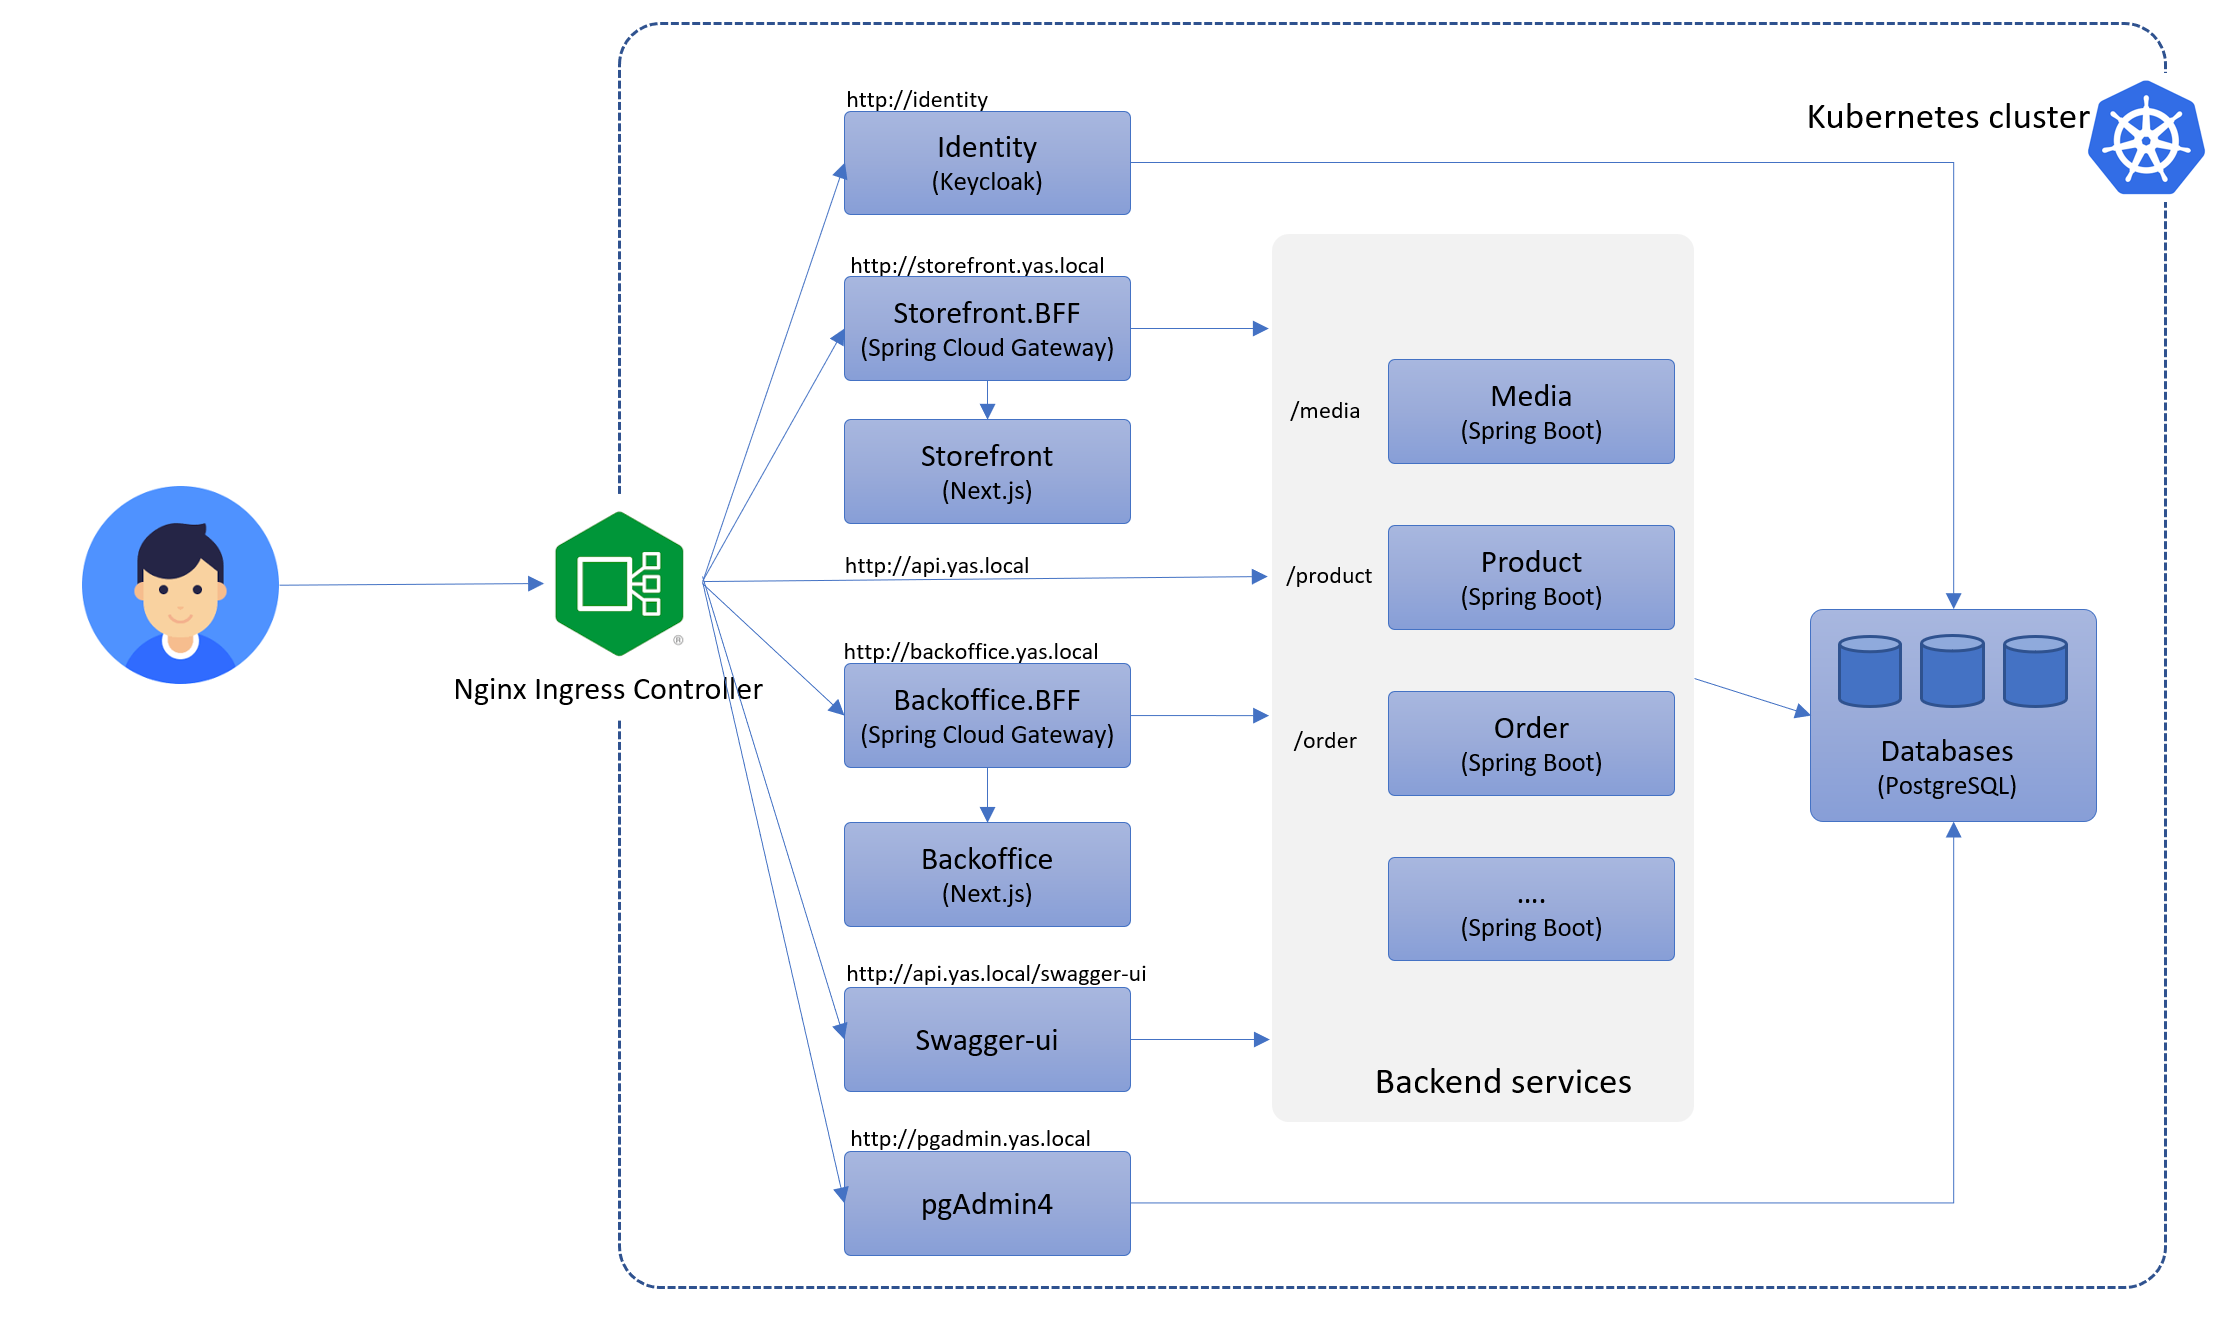
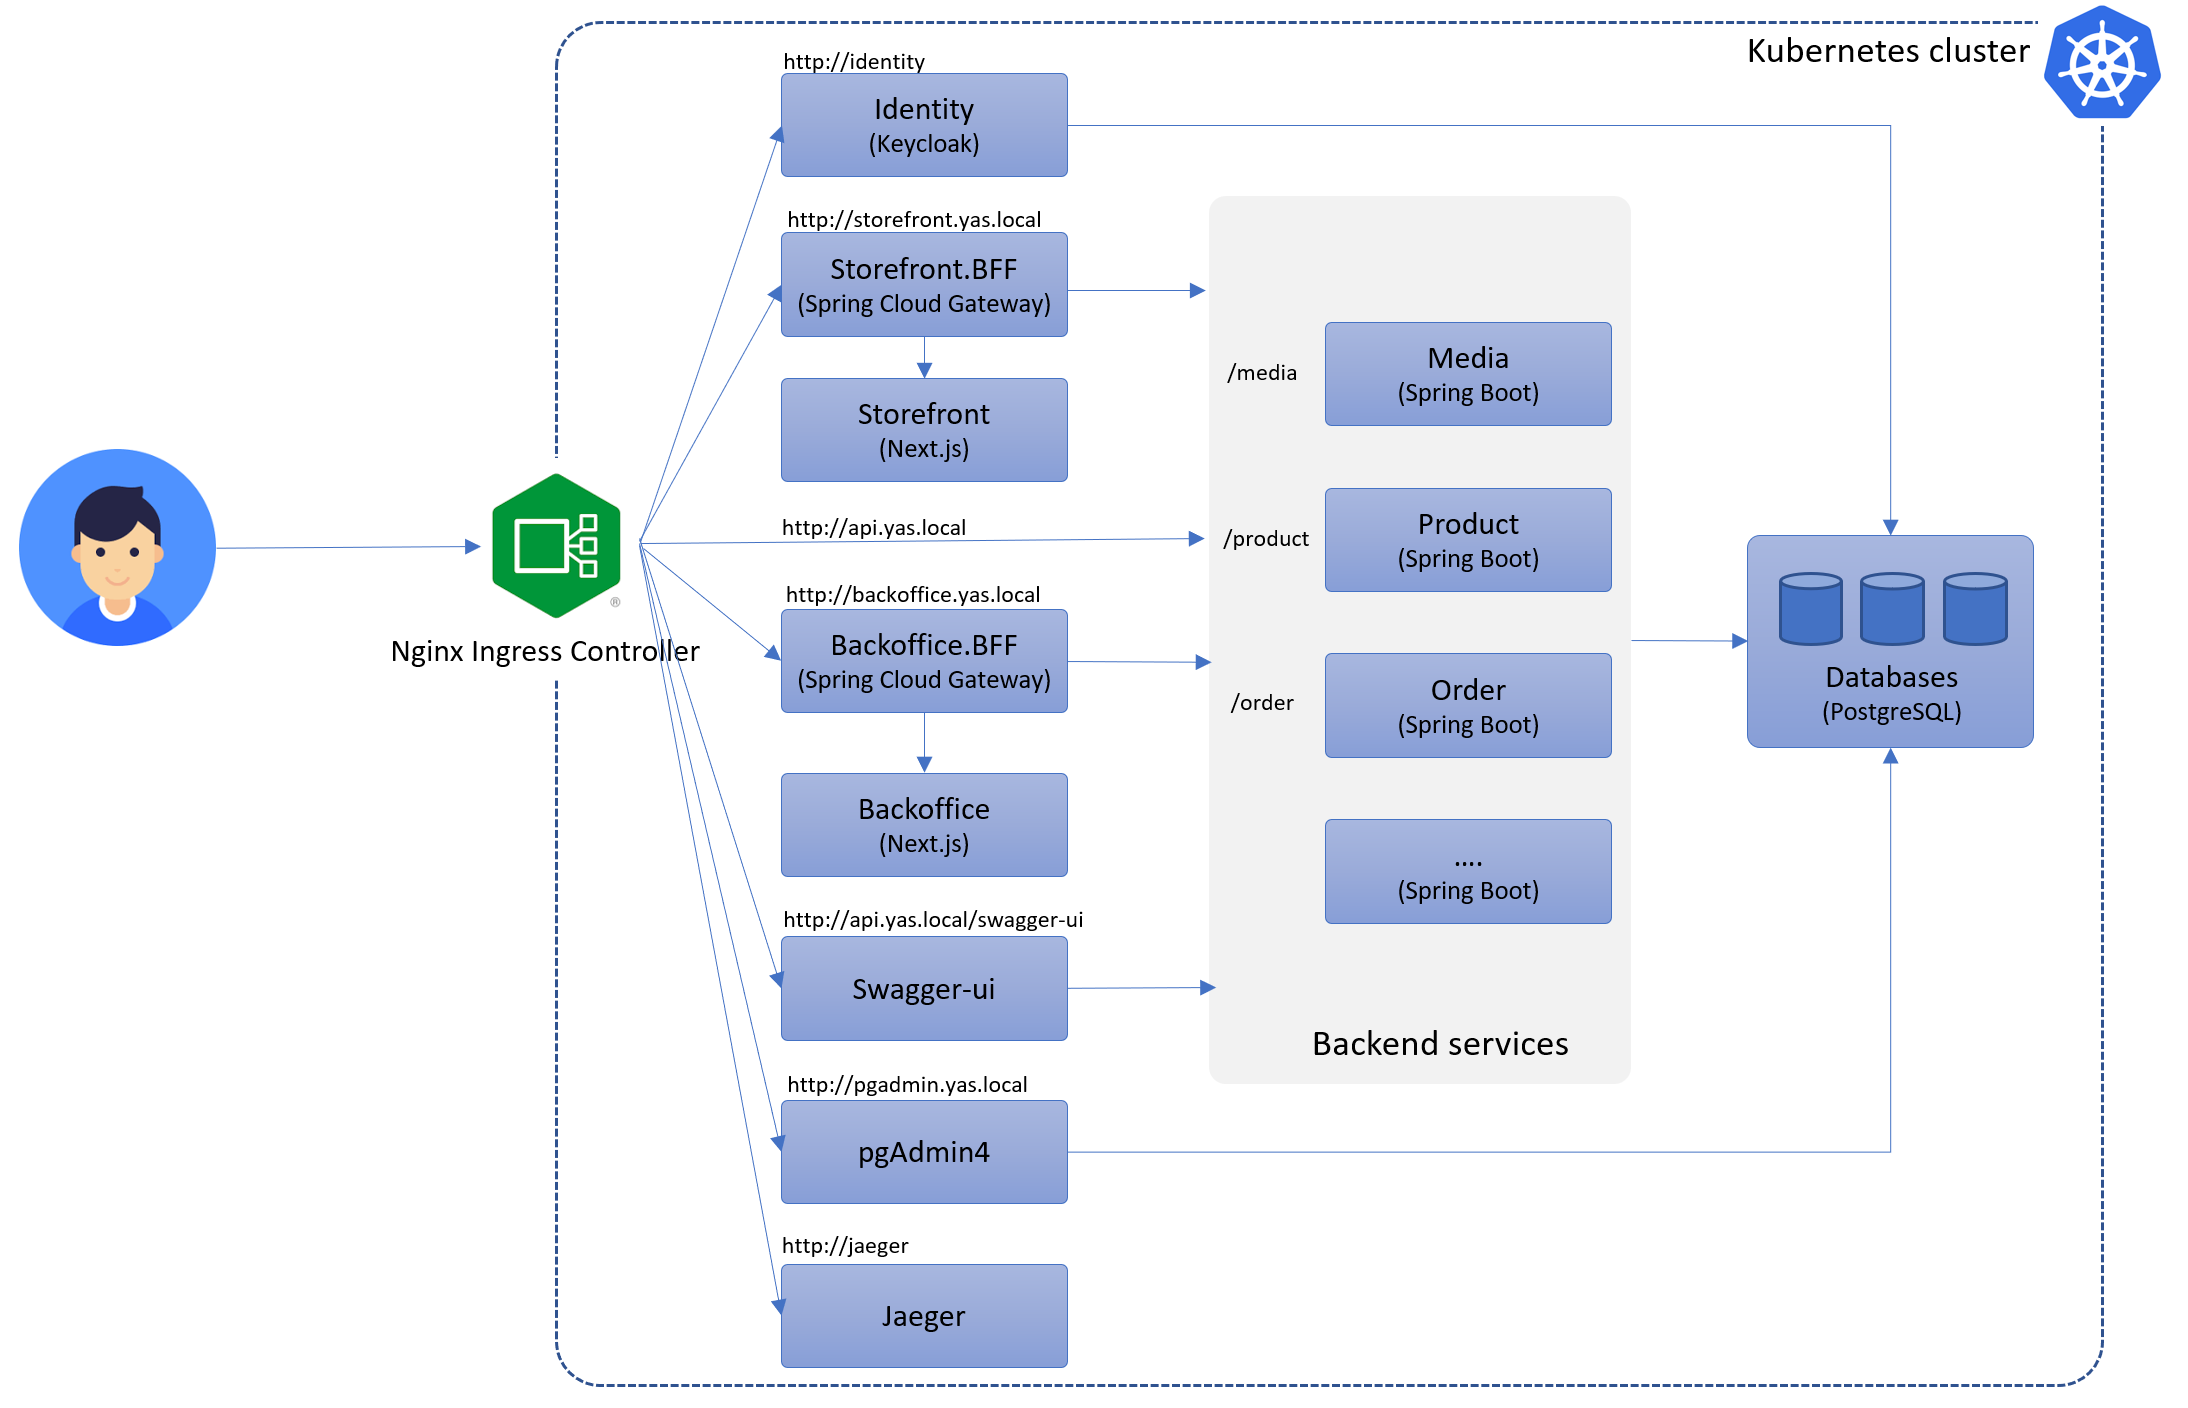
update local architecture diagram to latest code

diff --git a/README.md b/README.md
@@ -17,6 +17,7 @@ YAS is a pet project aim to practice building a typical microservice application
 - Github Actions
 - SonarCloud
 - OpenTelemetry
+- Jaeger
 - Quarkus
 - GraalVM
 
@@ -31,7 +32,7 @@ YAS is a pet project aim to practice building a typical microservice application
 1. Install NGINX ingress controller `kubectl apply -f https://raw.githubusercontent.com/kubernetes/ingress-nginx/controller-v1.1.1/deploy/static/provider/cloud/deploy.yaml`
 1. In C: driver, create 2 folders `k8s-yas-data/postgres` and `k8s-yas-data/pgadmin`
 1. Run `kubectl apply -f yaslocal.yaml`
-1. Add `127.0.0.1 identity`, `127.0.0.1 api.yas.local`, `127.0.0.1 storefront.yas.local`, `127.0.0.1 backoffice.yas.local` and `127.0.0.1 pgadmin.yas.local` to your host file
+1. Add `127.0.0.1 identity`, `127.0.0.1 api.yas.local`, `127.0.0.1 storefront.yas.local`, `127.0.0.1 backoffice.yas.local`, `127.0.0.1 pgadmin.yas.local` and `127.0.0.1 jaeger` to your host file
 1. Open your favorite browser and go to  http://pgadmin.yas.local. Account login: [email redacted] / admin. Register a server: localhost, port default, username admin, password admin. Then create a database name `keycloak`, `media`, `product`
 1. Open another browser tab and go to http://identity. Admin account is: admin/admin. Add Realm, choose Import, select file `/identity/realm-export.json`. If you already have the realm Yas, the go to that realm then Import
 1. The Postgresql server is also published to the host machine: servername: localhost, port: 30007, username: admin, password: admin